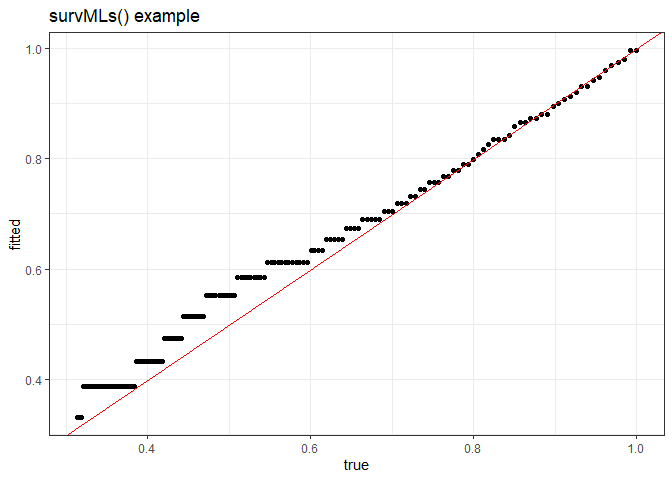
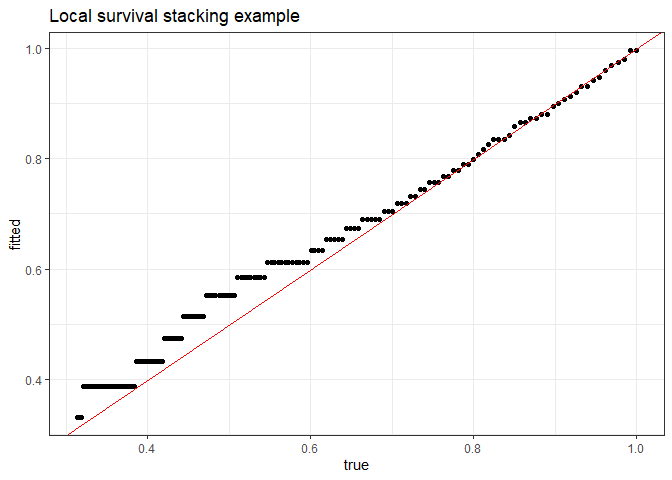
fix plot title in readme

Changed region(s): [[0.0625, 0.0, 0.4375, 0.0625]]

diff --git a/README.md b/README.md
@@ -153,7 +153,7 @@ p <- ggplot(data = plot_dat, mapping = aes(x = true, y = fitted)) +
   theme_bw() + 
   ylab("fitted") +
   xlab("true") + 
-  ggtitle("survMLc() example")
+  ggtitle("Global survival stacking example")
 
 p
 ```
@@ -187,7 +187,7 @@ p <- ggplot(data = plot_dat, mapping = aes(x = true, y = fitted)) +
   theme_bw() + 
   ylab("fitted") +
   xlab("true") + 
-  ggtitle("survMLs() example")
+  ggtitle("Local survival stacking example")
 
 p
 ```
